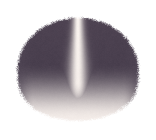
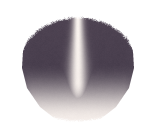
fix: reshape Maotai real desktop-pet head

Changed region(s): [[0.6923, 0.3143, 0.8974, 0.8286], [0.1026, 0.2857, 0.3077, 0.8286]]

diff --git a/windows/desktop/tests/PicotooPet.Desktop.Core.SmokeTests/MaotaiAssetPixelValidationSmokeTests.cs b/windows/desktop/tests/PicotooPet.Desktop.Core.SmokeTests/MaotaiAssetPixelValidationSmokeTests.cs
@@ -130,7 +130,44 @@ internal static class MaotaiAssetPixelValidationSmokeTests
                 $"v2 torso 有效纵向 silhouette 过小，肢体根部无法藏入毛发：{fileName} ratio={visibleHeightRatio:F3}");
         }
 
+        if (fileName == "head.png")
+        {
+            // Canine silhouette : the lower head must visibly taper into a jaw instead of reading as a circular mascot ball.
+            // Alpha threshold   : ignore only the faintest fur fringe so the contract measures the readable silhouette.
+            var midY       = minY + (int)Math.Round((maxY - minY) * 0.55);
+            var jawY       = minY + (int)Math.Round((maxY - minY) * 0.85);
+            var midWidth   = VisibleWidthAtY(pixels, converted.PixelWidth, stride, midY, minAlpha: 16);
+            var jawWidth   = VisibleWidthAtY(pixels, converted.PixelWidth, stride, jawY, minAlpha: 16);
+            var jawToMid   = jawWidth / (double)Math.Max(1, midWidth);
+            Assert(midWidth > 0 && jawWidth > 0, "v2 head silhouette 采样失败");
+            Assert(jawToMid <= 0.76,
+                $"v2 head 下颌没有收窄，仍会读成圆球；ratio={jawToMid:F3}");
+        }
+
         AssertOuterBorderTransparent(pixels, converted.PixelWidth, converted.PixelHeight, stride, fileName);
+    }
+
+    private static int VisibleWidthAtY(
+        byte[] pixels,
+        int width,
+        int stride,
+        int y,
+        byte minAlpha)
+    {
+        var minX = width;
+        var maxX = -1;
+        for (var x = 0; x < width; x++)
+        {
+            if (ReadAlpha(pixels, stride, x, y) < minAlpha)
+            {
+                continue;
+            }
+
+            minX = Math.Min(minX, x);
+            maxX = Math.Max(maxX, x);
+        }
+
+        return maxX >= minX ? maxX - minX + 1 : 0;
     }
 
     private static void AssertOuterBorderTransparent(

diff --git a/windows/desktop/src/PicotooPet.Desktop/Views/Controls/MaotaiMotion/MaotaiRasterFaceLayout.cs b/windows/desktop/src/PicotooPet.Desktop/Views/Controls/MaotaiMotion/MaotaiRasterFaceLayout.cs
@@ -10,8 +10,9 @@ namespace PicotooPet.Desktop.Views.Controls.MaotaiMotion;
 /// </summary>
 internal static class MaotaiRasterFaceLayout
 {
-    private const double HeadVisualScale = 0.96;
-    private const double EarTop = -20.5;
+    private const double HeadVisualScaleX = 0.92;
+    private const double HeadVisualScaleY = 0.98;
+    private const double EarTop = -26.0;
     private const double EyeTop = -16.0;
     private const double MuzzleTop = -13.0;
     private const double MouthTop = -2.0;
@@ -22,8 +23,9 @@ internal static class MaotaiRasterFaceLayout
     {
         ArgumentNullException.ThrowIfNull(headPanel);
 
-        // Static art-fit scale : new neutral fur shell is intentionally fuller; dynamic HeadScale remains Motion Engine-owned.
-        headPanel.LayoutTransform = new ScaleTransform(HeadVisualScale, HeadVisualScale);
+        // Static art-fit scale : the real head shell is intentionally slightly taller/narrower than a circle.
+        // Motion ownership     : dynamic HeadScale remains Motion Engine-owned; this only calibrates raster proportions once.
+        headPanel.LayoutTransform = new ScaleTransform(HeadVisualScaleX, HeadVisualScaleY);
 
         foreach (var child in headPanel.Children)
         {

diff --git a/windows/desktop/tests/PicotooPet.Desktop.Core.SmokeTests/MaotaiRasterFaceLayoutV2SmokeTests.cs b/windows/desktop/tests/PicotooPet.Desktop.Core.SmokeTests/MaotaiRasterFaceLayoutV2SmokeTests.cs
@@ -56,10 +56,10 @@ internal static class MaotaiRasterFaceLayoutV2SmokeTests
 
         var visualScale = head.LayoutTransform as ScaleTransform
             ?? throw new InvalidOperationException("head 必须有独立的静态视觉缩放，不能改 Motion Engine 的动态 HeadScale");
-        AssertNear(0.96, visualScale.ScaleX, "head 静态视觉宽度比例错误");
-        AssertNear(0.96, visualScale.ScaleY, "head 静态视觉高度比例错误");
+        AssertNear(0.92, visualScale.ScaleX, "head 静态视觉宽度比例错误");
+        AssertNear(0.98, visualScale.ScaleY, "head 静态视觉高度比例错误");
 
-        AssertNear(-20.5, Canvas.GetTop(ear), "耳根没有压入 head 毛发轮廓");
+        AssertNear(-26.0, Canvas.GetTop(ear), "耳朵露出量不足，head 会重新读成圆球");
         AssertNear(-13.0, Canvas.GetTop(muzzle), "muzzle 垂直校准错误");
         AssertNear(-16.0, Canvas.GetTop(eye), "眼睛垂直校准错误");
         AssertNear(-2.0, Canvas.GetTop(mouth), "嘴型垂直校准错误");
